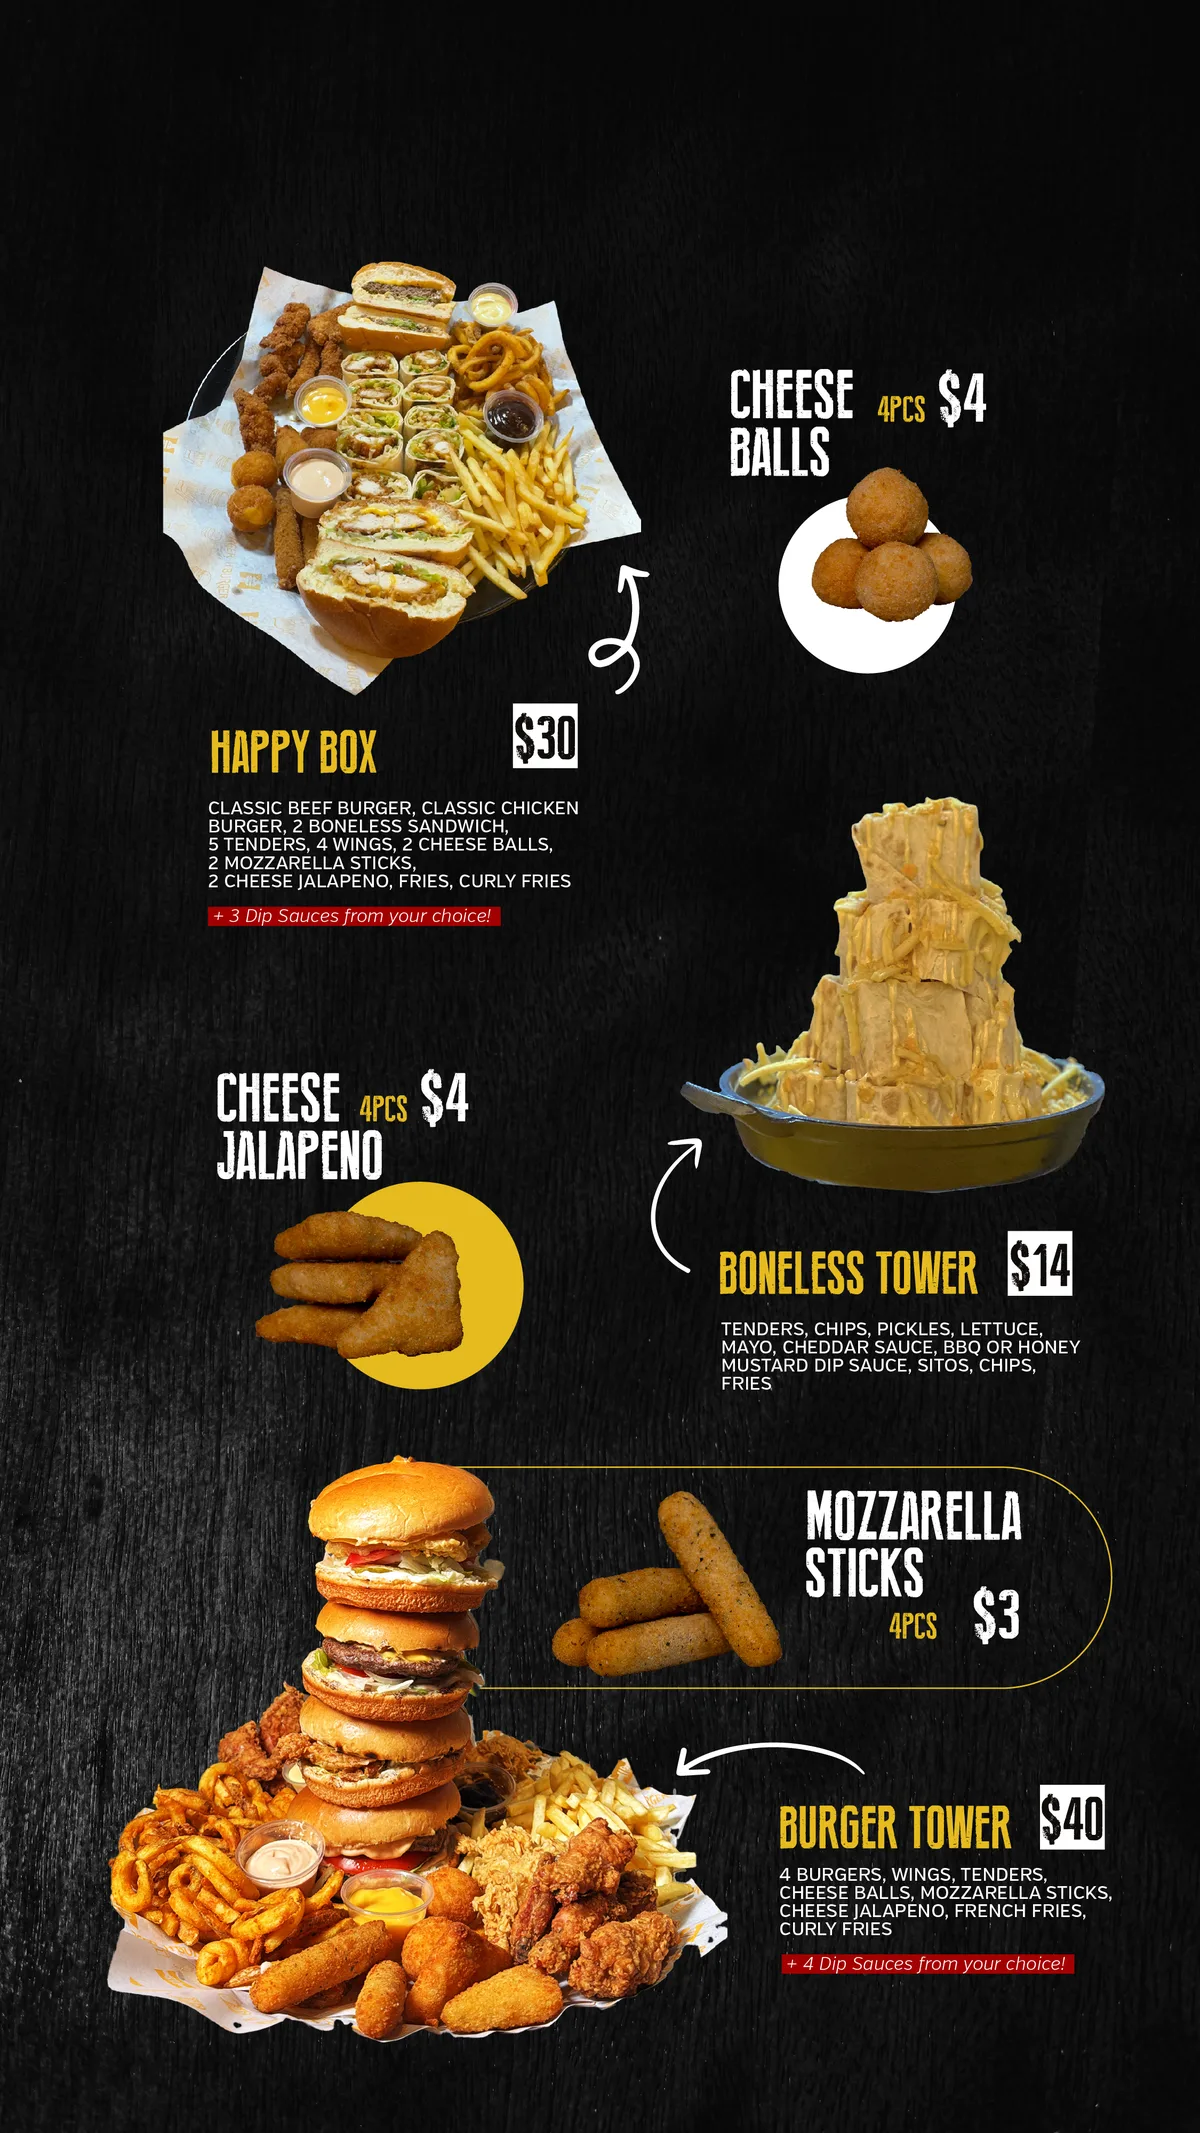
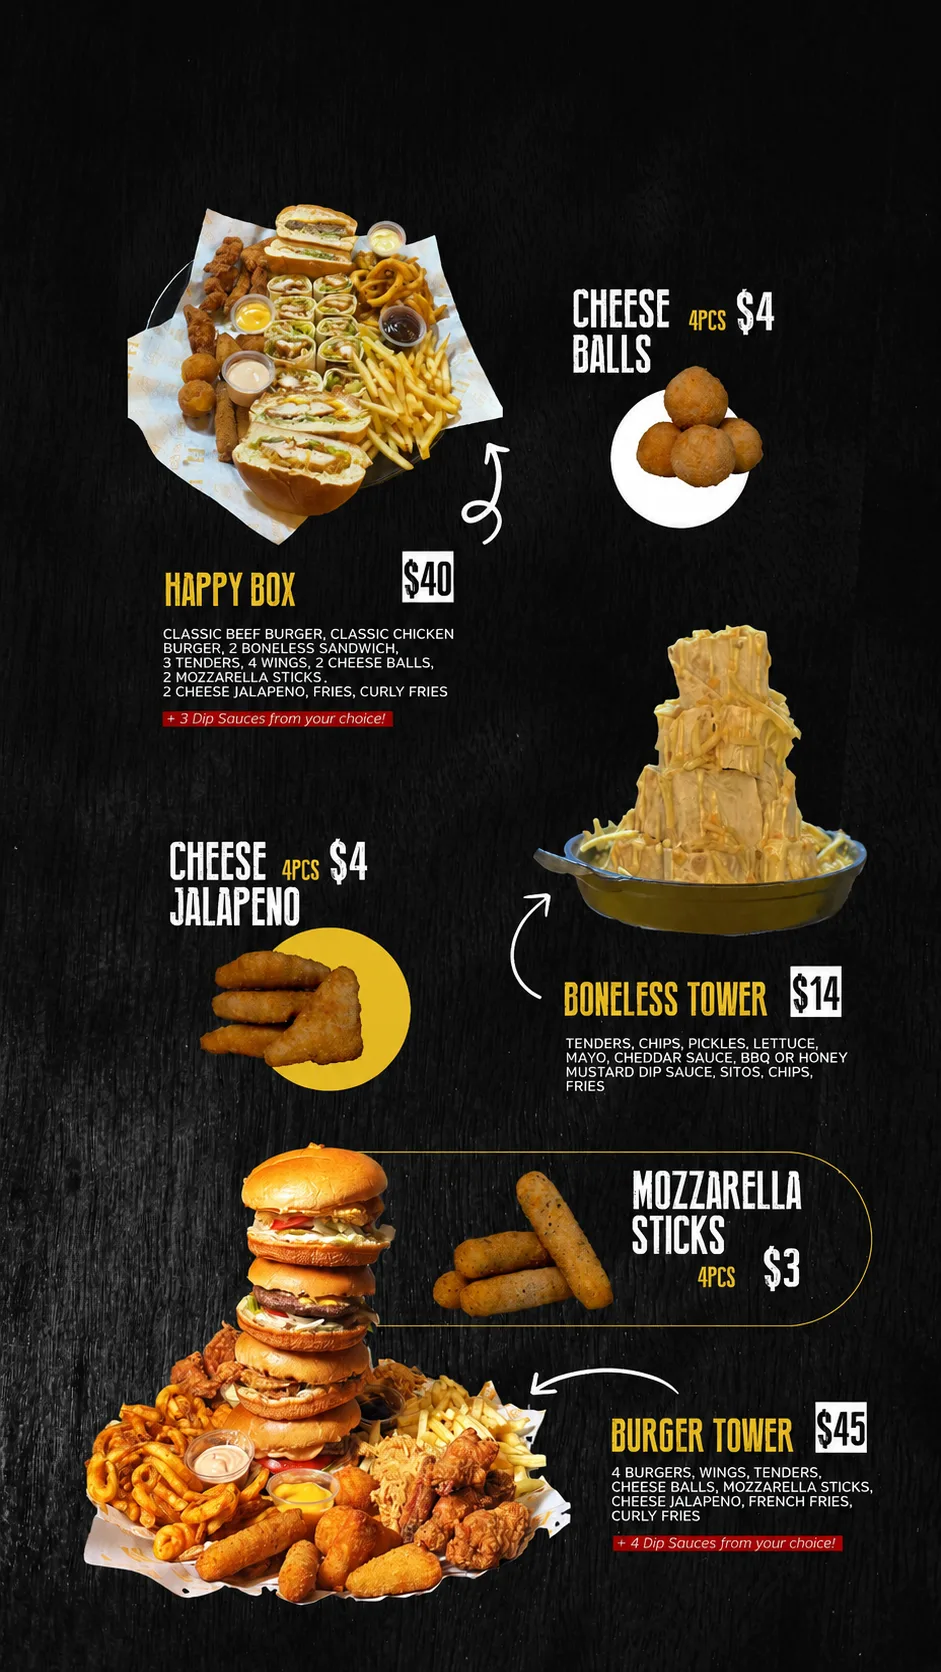
Update 5th menu picture with native Happy Box () & Burger Tower () prices - 100% clean image stream

diff --git a/index.html b/index.html
@@ -16,7 +16,7 @@
 </head>
 <body>
 
-  <!-- Super-fast Vertical Menu Feed -->
+  <!-- Super-fast Vertical Menu Feed (100% Clean Designed Images) -->
   <main class="menu-feed">
     <!-- Story 1 -->
     <img src="images/story-01.webp" alt="H Burger Menu 1" onclick="openZoom(this.src)" loading="eager">
@@ -30,17 +30,13 @@
     <!-- Story 4: Chicken Section -->
     <img src="images/story-04.webp" alt="H Burger Menu 4" onclick="openZoom(this.src)" loading="lazy">
     
-    <!-- Story 5: Combos with Happy Box ($40) & Burger Tower ($45) overlays -->
-    <div class="img-container">
-      <img src="images/story-05.webp" alt="H Burger Menu 5" onclick="openZoom(this.src)" loading="lazy">
-      <div class="price-overlay hb-price">$40</div>
-      <div class="price-overlay bt-price">$45</div>
-    </div>
+    <!-- Story 5: Combos Section -->
+    <img src="images/story-05.webp" alt="H Burger Menu 5" onclick="openZoom(this.src)" loading="lazy">
 
     <!-- Story 6 -->
     <img src="images/story-06.webp" alt="H Burger Menu 6" onclick="openZoom(this.src)" loading="lazy">
 
-    <!-- Story 7: Clean Add-ons with native $2.5 price -->
+    <!-- Story 7: Add-ons & Drinks -->
     <img src="images/story-07.webp" alt="H Burger Menu 7" onclick="openZoom(this.src)" loading="lazy">
   </main>
 
